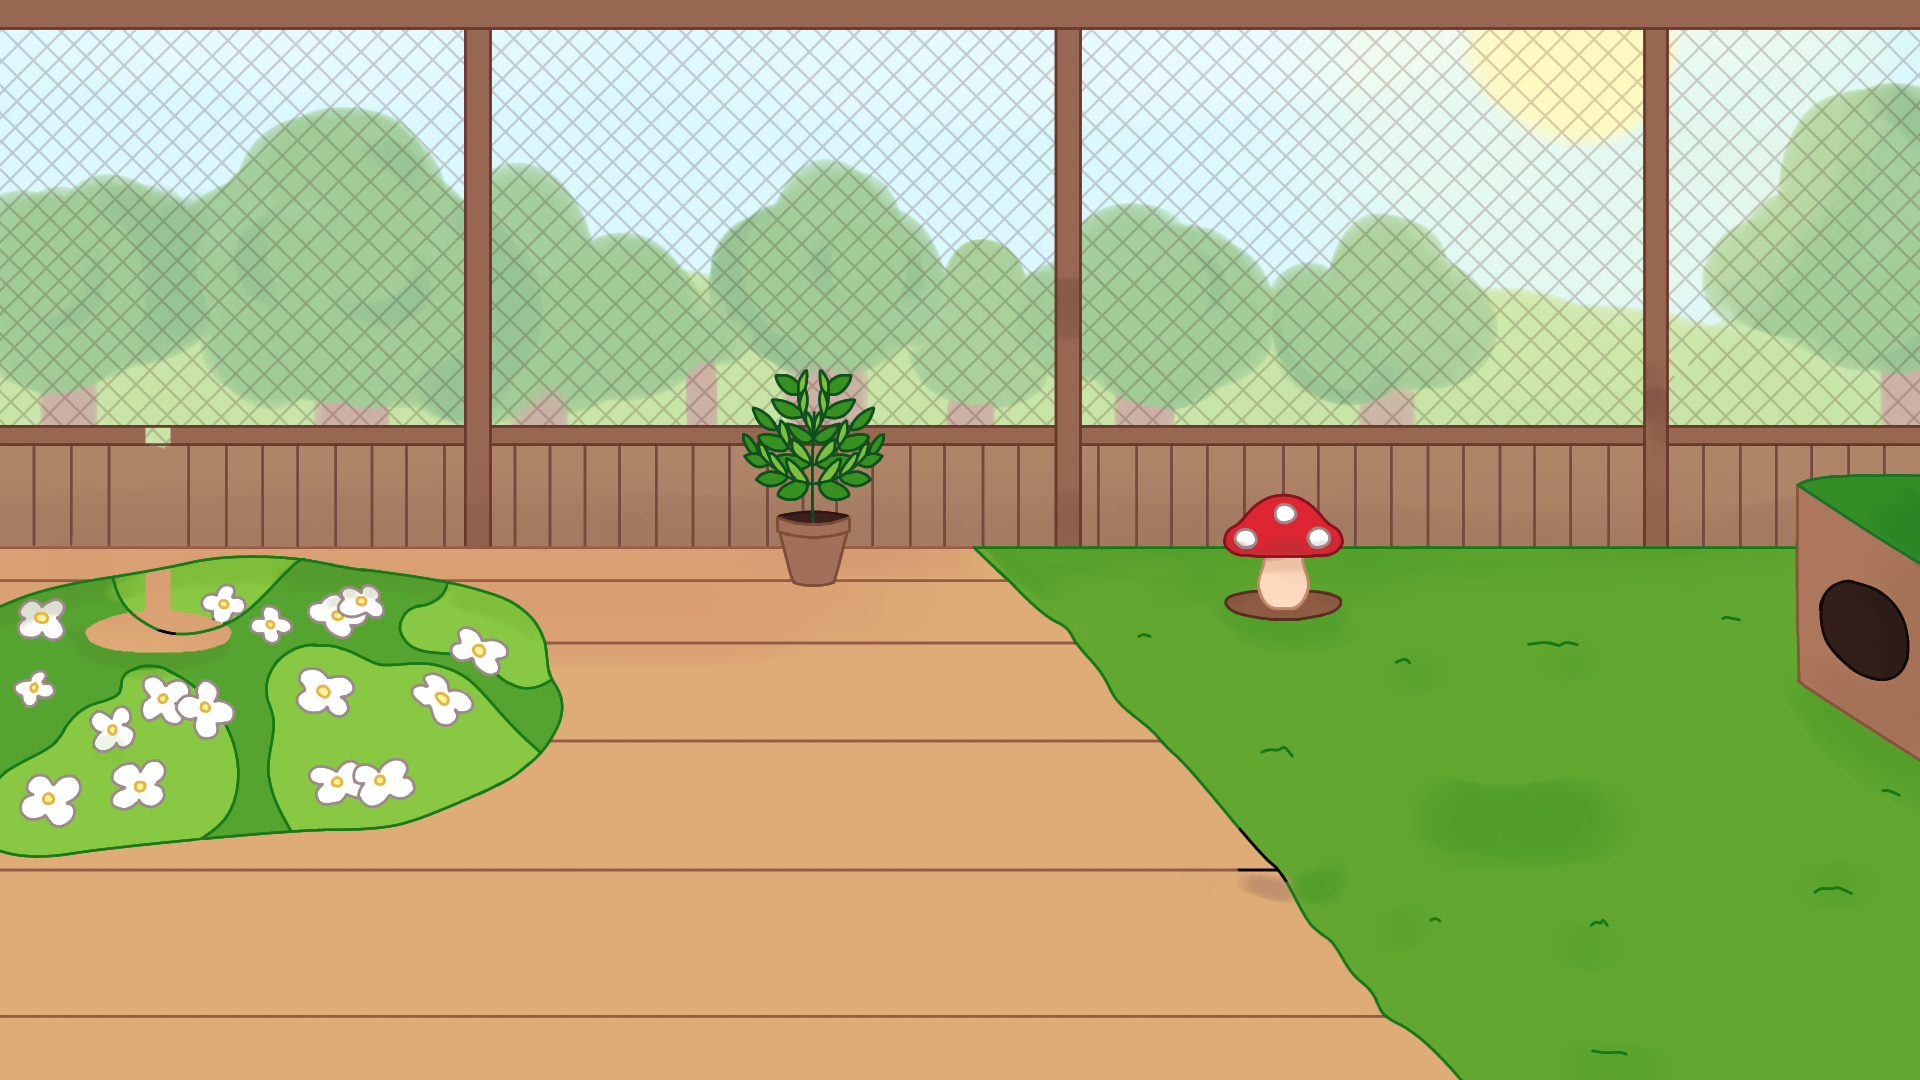
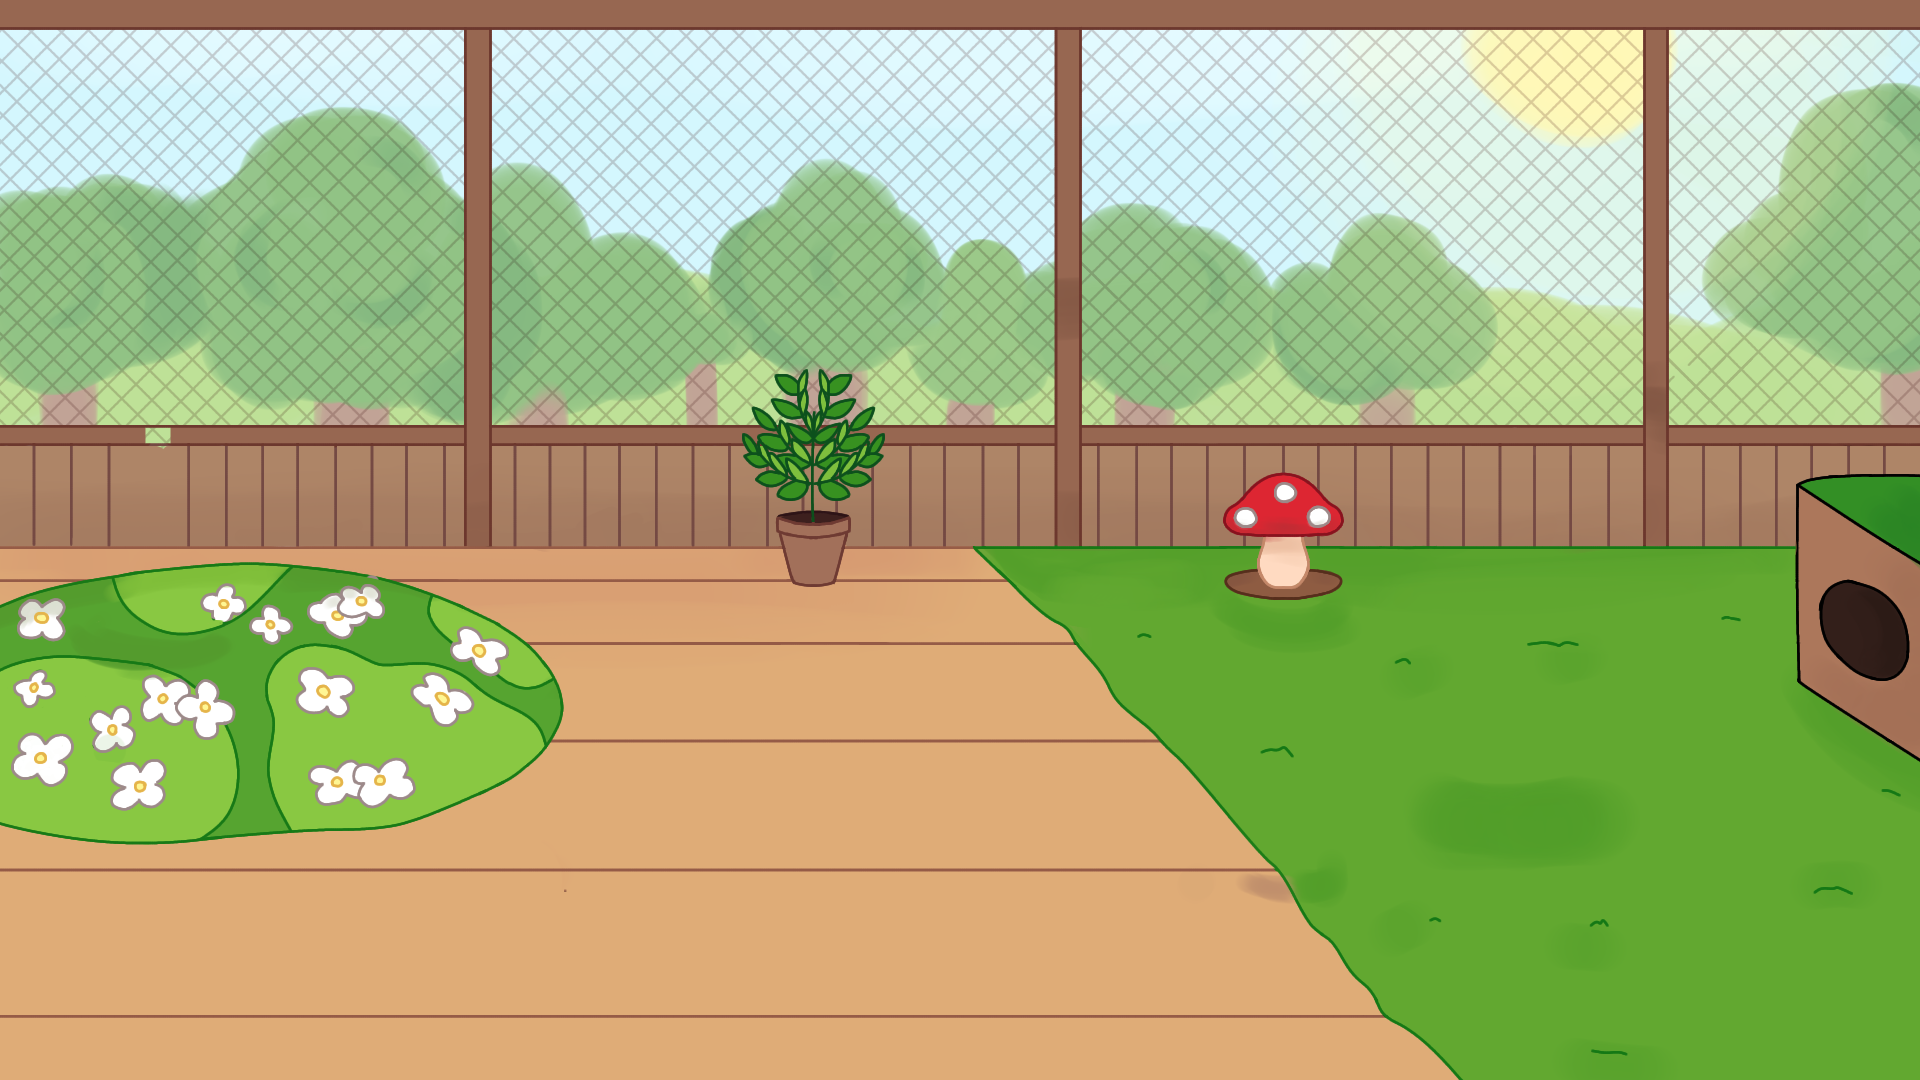
AAA

diff --git a/css/estilos.css b/css/estilos.css
@@ -16,6 +16,9 @@
   .brand .logo img{position:absolute;width:113.13%;left:-7.65%;top:-178.95%;display:block}
 
 
+  .btn-musica{position:fixed;top:16px;right:18px;z-index:6;width:48px;height:48px;font-size:22px;line-height:1;display:flex;align-items:center;justify-content:center;background:var(--paper2);border:3px solid var(--ink);border-radius:14px;box-shadow:3px 3px 0 var(--ink);cursor:pointer;transition:transform .08s}
+  .btn-musica:hover{transform:translateY(-2px)}
+  .btn-musica:active{transform:translateY(1px)}
   .toolbar{position:fixed;bottom:16px;left:50%;transform:translateX(-50%);display:flex;gap:8px;background:var(--paper);border:3px solid var(--ink);border-radius:18px;padding:8px;box-shadow:4px 4px 0 var(--ink);z-index:5}
   .toolbar button{font-family:inherit;font-size:15px;font-weight:600;color:var(--ink);background:var(--paper2);border:2.5px solid var(--ink);border-radius:12px;padding:8px 12px;cursor:pointer;display:flex;align-items:center;gap:6px;transition:transform .08s, background .15s;white-space:nowrap}
   .toolbar button:hover{transform:translateY(-2px)}
